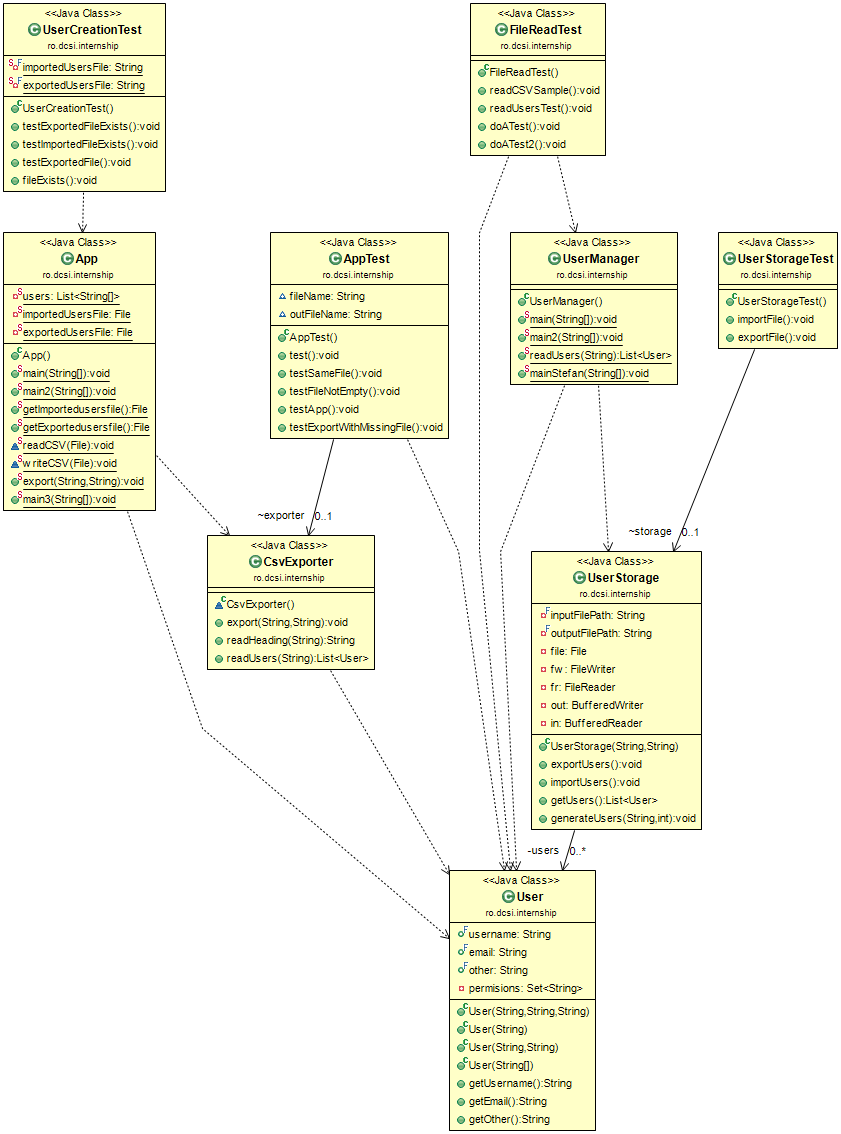
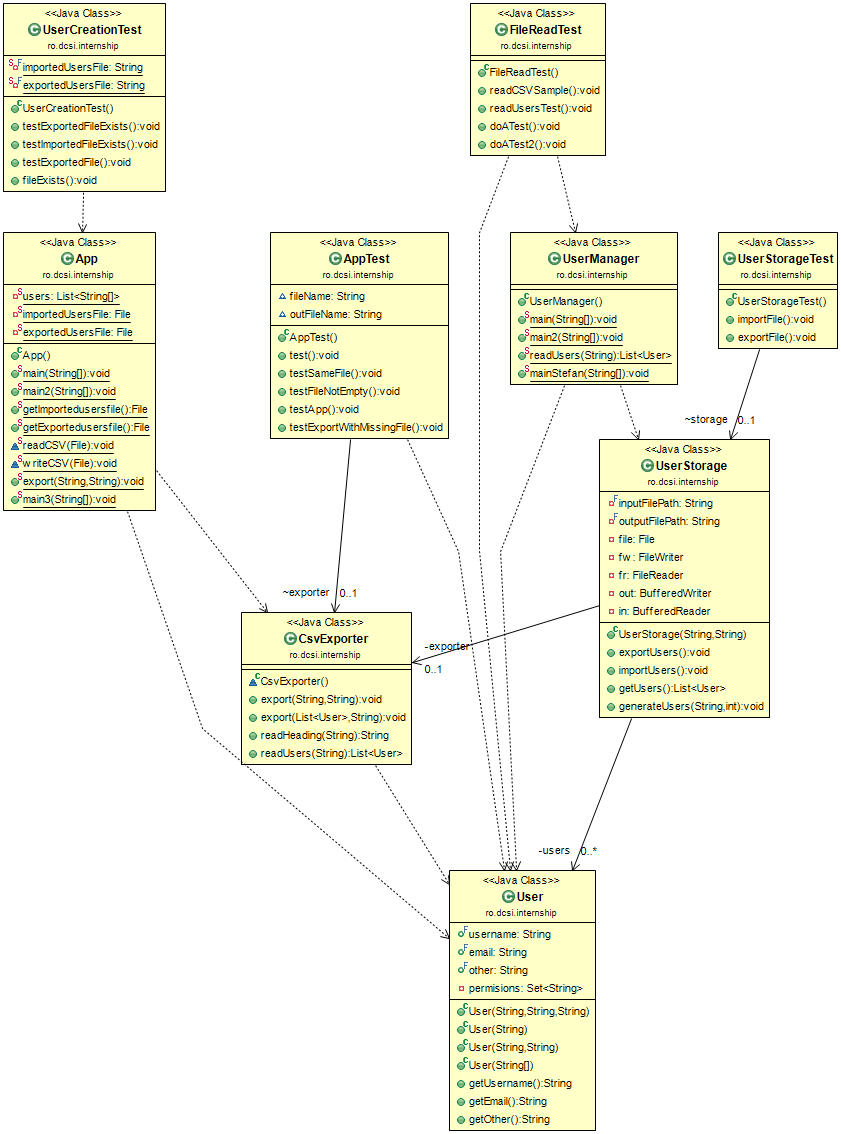
fix more tests. refactor UserStorage

Changed region(s): [[0.6183, 0.3395, 0.9275, 0.7716], [0.2473, 0.4321, 0.5565, 0.679]]

diff --git a/src/main/java/ro/dcsi/internship/UserStorage.java b/src/main/java/ro/dcsi/internship/UserStorage.java
@@ -11,7 +11,8 @@ import java.util.Iterator;
 import java.util.List;
 
 public class UserStorage {
-	
+	private final CsvExporter exporter = new CsvExporter();
+
 	private final String inputFilePath;
 	private final String outputFilePath;
 	private File file = null;
@@ -21,104 +22,58 @@ public class UserStorage {
 	private BufferedReader in = null;
 
 	private List<User> users = new ArrayList<User>();
-	
-	public UserStorage(String inputFilePath, String outputFilePath){
+
+	public UserStorage(String inputFilePath, String outputFilePath) {
 		this.inputFilePath = inputFilePath;
 		this.outputFilePath = outputFilePath;
 	}
-	
-	public void exportUsers(){
-				
-		try{
+
+	public void exportUsers() {
+		exporter.export(users, outputFilePath);
+		try {
 			file = new File(outputFilePath);
 			fw = new FileWriter(file);
 			out = new BufferedWriter(fw);
-			
+
 			Iterator<User> iterator = users.iterator();
-			
+
 			User tmp;
-			
-			while(iterator.hasNext()){
-				tmp = (User)iterator.next();
+
+			while (iterator.hasNext()) {
+				tmp = (User) iterator.next();
 				out.write(tmp + ",\n");
 				out.flush();
 			}
-		}
-		catch(IOException e){
+		} catch (IOException e) {
 			e.printStackTrace();
-		}
-		finally{
-			try{
-				if(fw != null){
+		} finally {
+			try {
+				if (fw != null) {
 					fw.close();
 				}
-				if(out != null){
+				if (out != null) {
 					out.close();
 				}
-			}
-			catch(IOException e){
+			} catch (IOException e) {
 				e.printStackTrace();
 			}
 		}
 	}
-	
-	public void importUsers(){
-		try{
-			file = new File(inputFilePath);
-			fr = new FileReader(file);
-			in = new BufferedReader(fr);
-			
-			String userStr = null;
-			
-			User tmp;
-			
-			while((userStr = in.readLine()) != null){
-				userStr = userStr.substring(0, userStr.length()-1);
-				tmp = new User(userStr);
-				users.add(tmp);
-			}
-		}
-		catch(IOException e){
-			e.printStackTrace();
-		}
-		finally{
-			try{
-				if(fr != null){
-					fr.close();
-				}
-				if(in != null){
-					in.close();
-				}
-			}
-			catch(IOException e){
-				e.printStackTrace();
-			}
-		}
-		
+
+	public void importUsers() {
+		users = exporter.readUsers(inputFilePath);
 	}
-	
-	public List<User> getUsers(){
+
+	public List<User> getUsers() {
 		return users;
 	}
-	
+
 	// helper method
-	public void generateUsers(String filePath, int nrOfUsersToGenerate){
-		try{
-			File file = new File(outputFilePath);
-			FileWriter fw = new FileWriter(file);
-			BufferedWriter out = new BufferedWriter(fw);
-			
-			for(int i=1;i<=nrOfUsersToGenerate;i++){
-				out.write("User" + i + ",\n");
-				out.flush();
-			}
-			
-			fw.close();
-			out.close();
-			
+	public void generateUsers(String filePath, int nrOfUsersToGenerate) {
+		List<User> users = new ArrayList<>();
+		for (int i = 1; i <= nrOfUsersToGenerate; i++) {
+			users.add(new User("User" + i));
 		}
-		catch(IOException e){
-			e.printStackTrace();
-		}
+		exporter.export(users, filePath);
 	}
 }

diff --git a/src/main/java/ro/dcsi/internship/CsvExporter.java b/src/main/java/ro/dcsi/internship/CsvExporter.java
@@ -1,26 +1,20 @@
 package ro.dcsi.internship;
 
-import java.io.BufferedReader;
-import java.io.FileNotFoundException;
-import java.io.FileReader;
-import java.io.FileWriter;
-import java.io.IOException;
-import java.util.ArrayList;
-import java.util.List;
+import java.io.*;
+import java.util.*;
 
 public class CsvExporter {
 	CsvExporter() {
 		System.out.println("instantiated");
 	}
-
-	public void export(String inputFilename, String outputFileName) throws IOException {
-		String s;
-		try (FileReader fr = new FileReader(inputFilename);
-			FileWriter fo = new FileWriter(outputFileName);
-			) {
-			BufferedReader br = new BufferedReader(fr);
-			while ((s = br.readLine()) != null) {
-				fo.append(s + ",");
+	public void export(String inputFileName, String outputFileName) {
+		List<User> users = readUsers(inputFileName);
+		export(users, outputFileName);
+	}
+	public void export(List<User> users, String outputFileName){
+		try (FileWriter fo = new FileWriter(outputFileName); BufferedWriter out = new BufferedWriter(fo)) {
+			for (User user : users) {
+				out.write(user + ",\n");
 			}
 		} catch (IOException e) {
 			throw new RuntimeException(e);

diff --git a/src/test/java/ro/dcsi/internship/UserStorageTest.java b/src/test/java/ro/dcsi/internship/UserStorageTest.java
@@ -3,7 +3,7 @@ package ro.dcsi.internship;
 import org.junit.Test;
 
 public class UserStorageTest {
-	UserStorage storage = new UserStorage("input.csv","target/output-UsersStorageTest.csv");
+	UserStorage storage = new UserStorage("src/test/resources/input.csv","target/output-UsersStorageTest.csv");
 	
 	@Test
 	public void importFile() {
